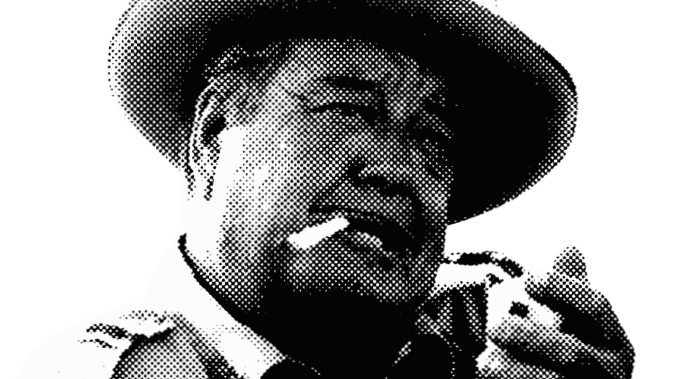
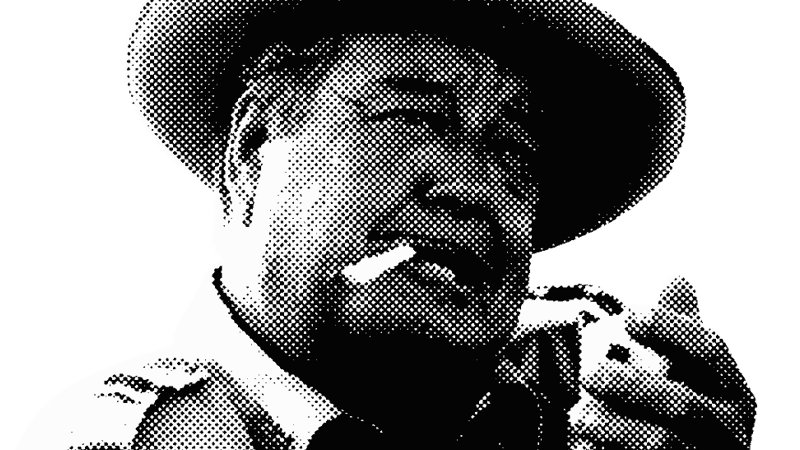
tweaked image figure in /about/ layout

diff --git a/_pages/about.html b/_pages/about.html
@@ -7,7 +7,9 @@ permalink: /about/
 
 <article>
 
-  <img src="/assets/img/buford.png" class="rock rounded" width="673" height="379" alt="">
+  <figure class="feature"><!-- 800.0 x 450.0 | 56.25% -->
+    <div class="wrap" style="padding-bottom:56.25%"><img src="/assets/img/buford.png" alt="Buford!"></div>
+  </figure>
 
   {% capture bio %}
   <header class="inline">
